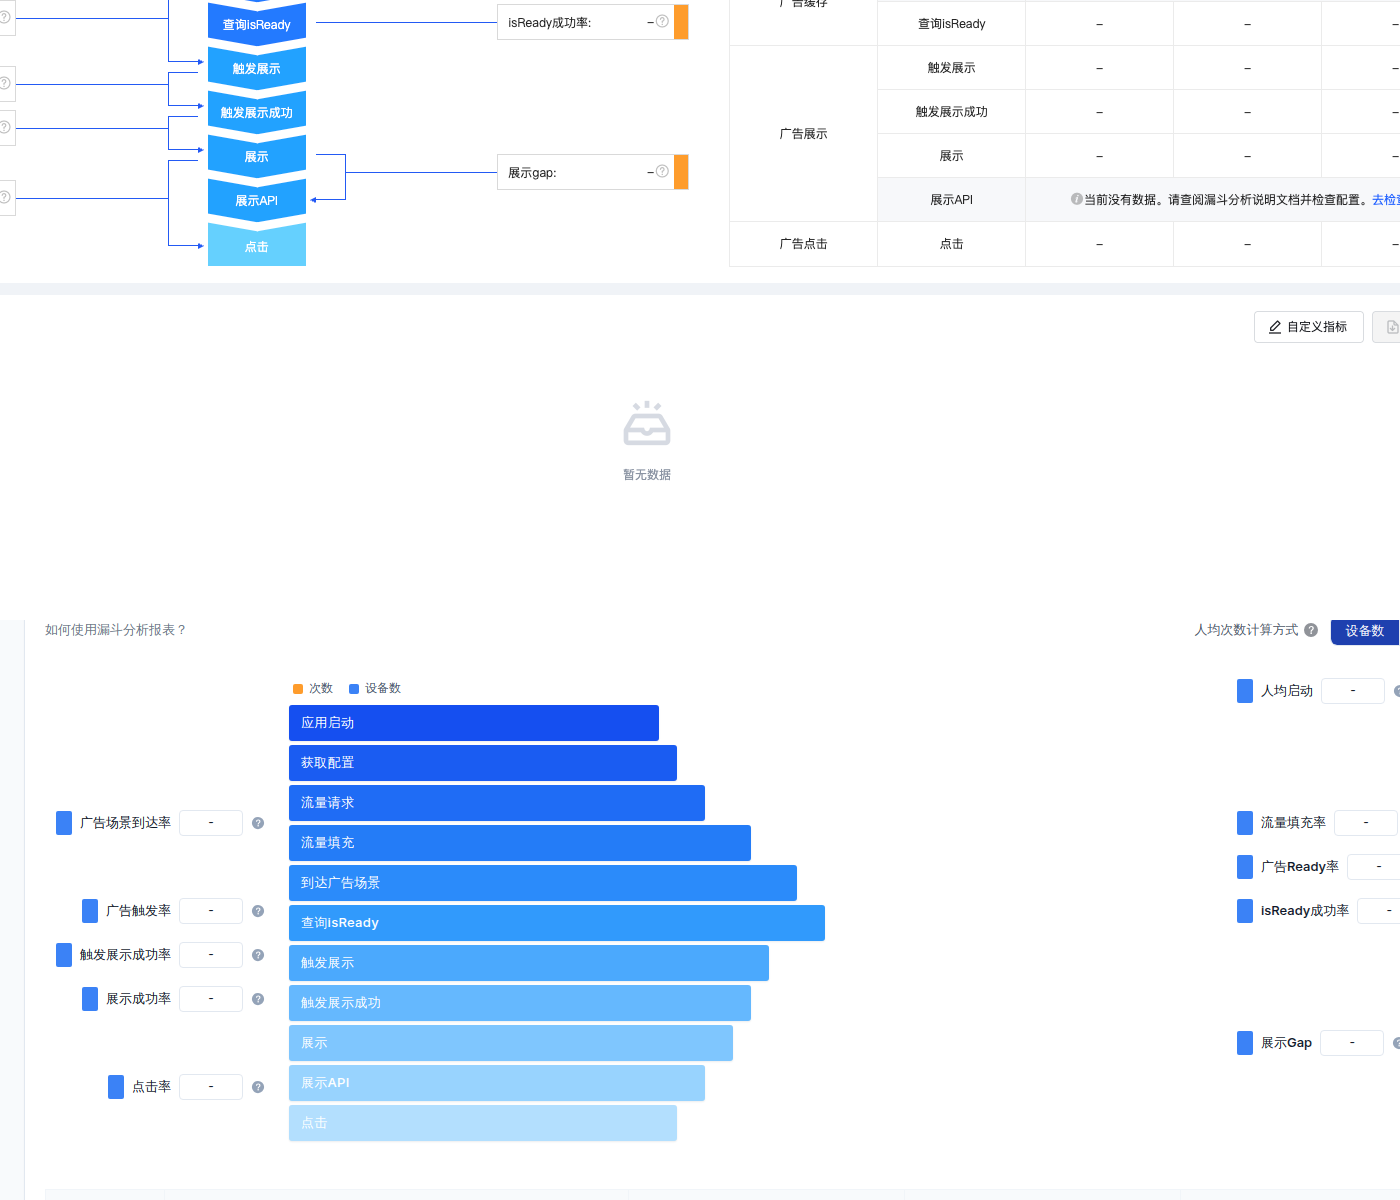
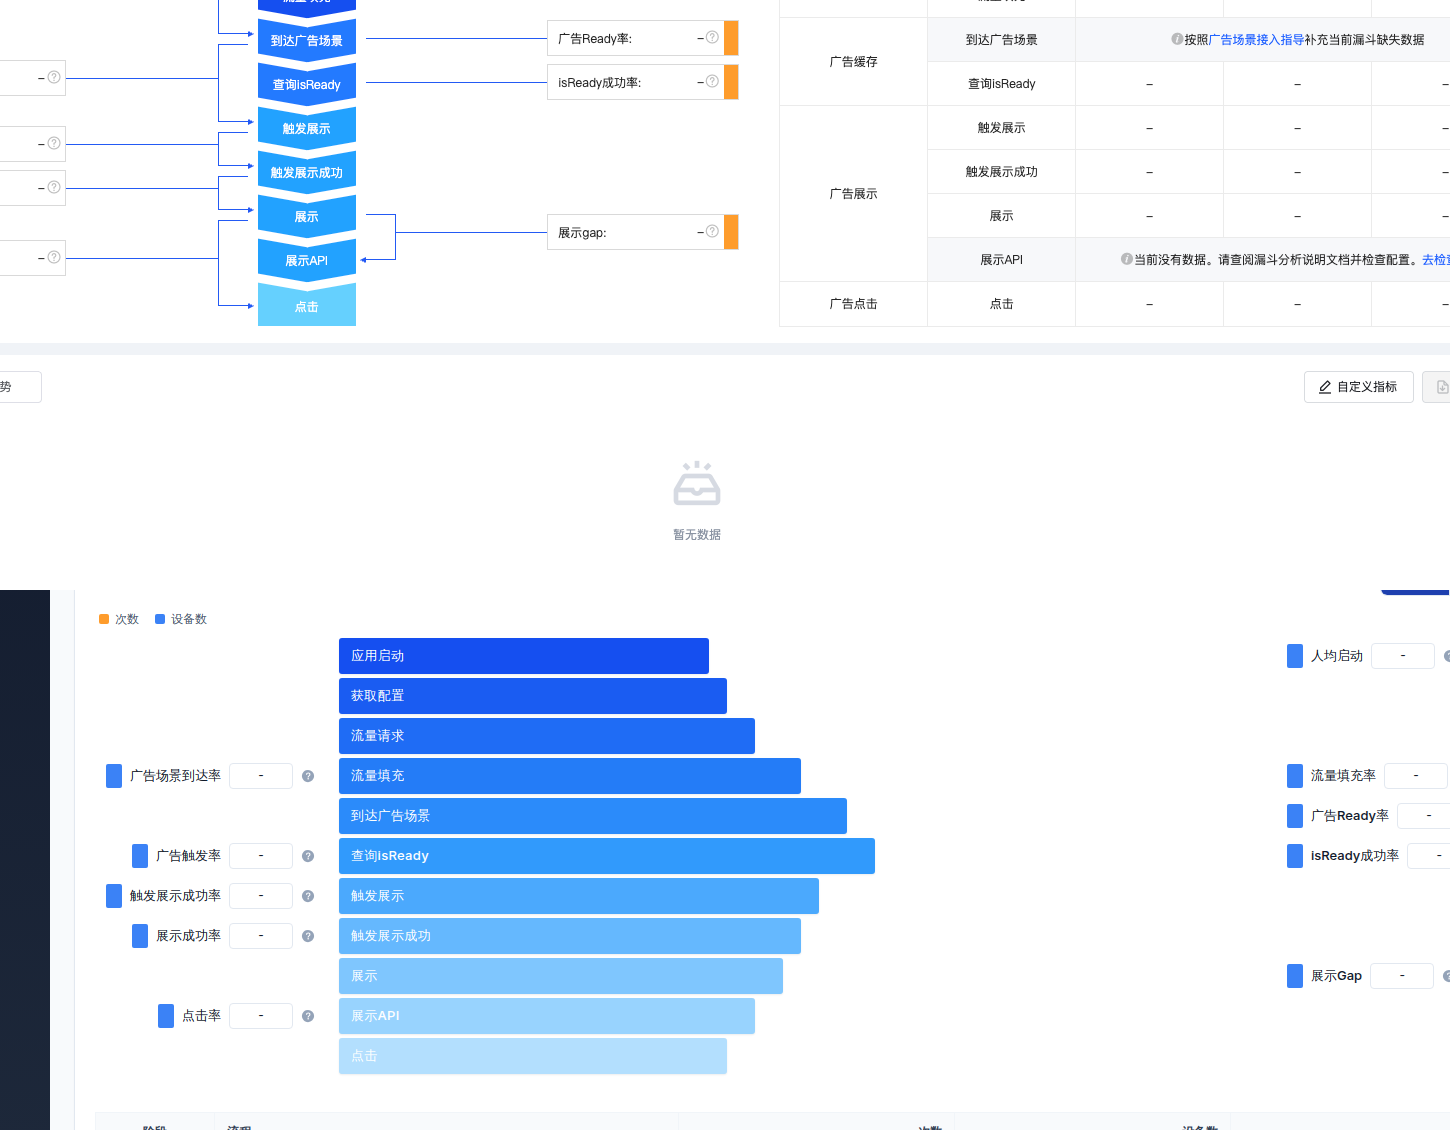
fix(funnel): 修复左右指标与漏斗步骤 y 位置不对齐问题
- 重构 funnel-grid 布局: legend 移至 grid 外, chart 跨 row 1-12
- grid-template-rows 改为 40px (= step 间距 36+4 gap), 保证 step 和 metric 共享同一 row 高度
- step 块 (36px) 和 metric 块 (36px) 都在 40px row 内居中 (align-items: center), top=2 中线 20, 完全对齐
- 调整 alignIndex 让 metric gridRow = step index + 1
- E2E 验证: 11 步与 10 个指标 y 坐标完全一致 (差 0px)

修复前: 指标偏上 8-44px (随行数累积)
修复后: 全部对齐到对应 step 的 y 中线

diff --git a/src/views/report/Funnel.vue b/src/views/report/Funnel.vue
@@ -106,8 +106,12 @@
       </div>
 
       <div class="funnel-layout">
+        <div class="funnel-legend">
+          <span class="funnel-legend-item"><span class="funnel-legend-dot" style="background: #fe9c2c"></span>次数</span>
+          <span class="funnel-legend-item"><span class="funnel-legend-dot" style="background: #3b82f6"></span>设备数</span>
+        </div>
         <div class="funnel-grid">
-          <!-- 左指标：对齐到对应 step 的 y 位置 -->
+          <!-- 左指标 -->
           <div
             v-for="m in LEFT_METRICS"
             :key="m.code"
@@ -122,25 +126,19 @@
             </el-tooltip>
           </div>
 
-          <!-- 中央 11 步漏斗 -->
-          <div class="funnel-col">
-            <div class="funnel-legend">
-              <span class="funnel-legend-item"><span class="funnel-legend-dot" style="background: #fe9c2c"></span>次数</span>
-              <span class="funnel-legend-item"><span class="funnel-legend-dot" style="background: #3b82f6"></span>设备数</span>
-            </div>
-            <div class="funnel-chart">
-              <div
-                v-for="(step, idx) in FUNNEL_STEPS"
-                :key="step.code"
-                :class="['funnel-block', `funnel-block-${idx}`]"
-                :title="step.name"
-              >
-                <span class="funnel-block-text">{{ step.name }}</span>
-              </div>
+          <!-- 中央 11 步漏斗 (row 1-11 col 2) -->
+          <div class="funnel-chart" style="grid-column: 2; grid-row: 1 / 12">
+            <div
+              v-for="(step, idx) in FUNNEL_STEPS"
+              :key="step.code"
+              :class="['funnel-block', `funnel-block-${idx}`]"
+              :title="step.name"
+            >
+              <span class="funnel-block-text">{{ step.name }}</span>
             </div>
           </div>
 
-          <!-- 右指标：对齐到对应 step 的 y 位置 -->
+          <!-- 右指标 -->
           <div
             v-for="m in RIGHT_METRICS"
             :key="m.code"

diff --git a/src/index.css b/src/index.css
@@ -10581,9 +10581,10 @@ html, body, #app {
   display: grid;
   width: 100%;
   grid-template-columns: 220px minmax(360px, 1fr) 220px;
-  grid-template-rows: repeat(11, 44px);
+  grid-template-rows: repeat(11, 40px);
   column-gap: 24px;
-  align-items: center;
+  row-gap: 0;
+  align-items: stretch;
   padding: 8px 0 16px;
 }
 .funnel-col {
@@ -10591,8 +10592,7 @@ html, body, #app {
   grid-row: 1 / -1;
   display: flex;
   flex-direction: column;
-  align-items: stretch;
-  gap: 8px;
+  gap: 12px;
   min-width: 0;
   width: 100%;
 }
@@ -10615,10 +10615,10 @@ html, body, #app {
   border-radius: 2px;
 }
 .funnel-chart {
-  display: flex;
-  flex-direction: column;
-  gap: 4px;
-  align-items: stretch;
+  display: grid;
+  grid-template-rows: repeat(11, 40px);
+  row-gap: 0;
+  align-items: center;
   width: 100%;
   min-width: 0;
 }
@@ -10633,6 +10633,7 @@ html, body, #app {
   border-radius: 3px;
   letter-spacing: 0.3px;
   box-shadow: 0 1px 2px rgba(15, 23, 42, 0.08);
+  width: 100%;
 }
 .funnel-block-text {
   white-space: nowrap;
@@ -10660,6 +10661,7 @@ html, body, #app {
   font-size: 13px;
   color: var(--color-text-primary, #0f172a);
   height: 36px;
+  align-self: center;
 }
 .funnel-metric-left {
   grid-column: 1;
